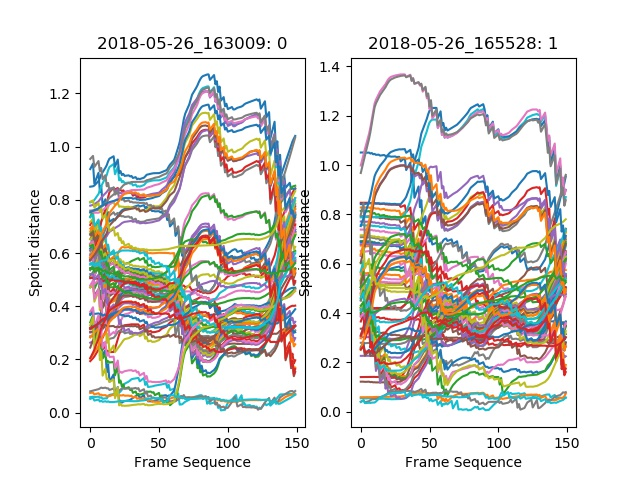
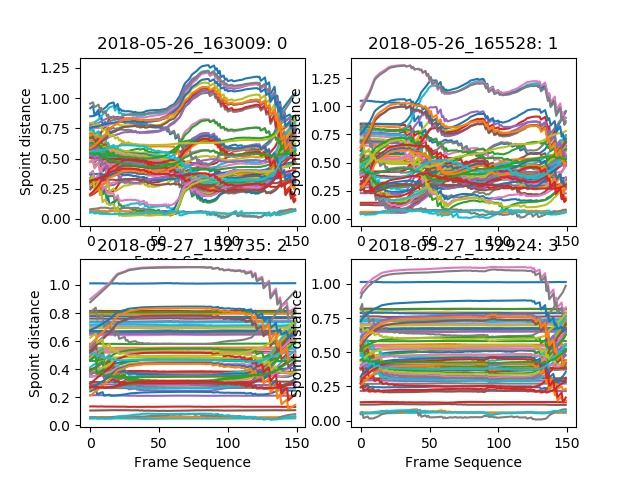
modify dataset

diff --git a/Project_DNN/do_Learning.py b/Project_DNN/do_Learning.py
@@ -30,9 +30,9 @@ path.ifNoDirThanMakeDir('weight')
 
 # configs
 epochs = util.inputInt('How many epochs?')
-b1_batch_size = 20 # GPU 메모리 부족으로 Batch_size에 한계 있음
-b2_batch_size = 11
-m1_batch_size = 11
+b1_batch_size = 15 # GPU 메모리 부족으로 Batch_size에 한계 있음
+b2_batch_size = 4
+m1_batch_size = 4
 isLoadWeight = util.inputInt('Load weight? (1 to yes)')
 overwrite = True
 isGuidenceTrain = util.inputInt('Guidence Train? (1 to yes)')
@@ -95,7 +95,7 @@ m1.fit([spointList_train, roiSampleList_train], [labelList_train],
 util.showProcess('Evaluate M1')
 score, acc = m1.evaluate([spointList_train, roiSampleList_train],
                          [labelList_train],
-                         batch_size=b1_batch_size)
+                         batch_size=m1_batch_size)
 print('Test score:', score)
 print('Test accuracy:', acc)
 

diff --git a/Project_Kinect/code/kinectProgram.cpp b/Project_Kinect/code/kinectProgram.cpp
@@ -534,7 +534,7 @@ void Kinect::updateFrame()
 		// 기록 끝
 		if (frameStacking && (!leftHandActivated && !rightHandActivated))
 		{
-			int needStackedCnt = (mode == KINECT_MODE_PREDICT ? 18 : 41);
+			int needStackedCnt = (mode == KINECT_MODE_PREDICT ? 18 : 35);
 
 			// 일정 frame 이상 쌓여야 함, 아니면 송신/저장 안함
 			if (frameCollection.getCollectionSize() > needStackedCnt)
@@ -624,7 +624,7 @@ void Kinect::save()
 	string folderPath = string(PATH_DATA_FOLDER);
 	folderPath += "/" + to_string(label) + "_" + LABEL(label);
 	isFolderNotExistCreate(folderPath);
-	folderPath += "/" + currentDateTime() + "_" + label + "_" + workerName;
+	folderPath += "/" + currentDateTime() + "_" + to_string(label) + "_" + workerName;
 	isFolderNotExistCreate(folderPath);
 	folderPath += "/";
 

diff --git a/Project_DNN/scripts/defines.py b/Project_DNN/scripts/defines.py
@@ -1,1 +1,1 @@
-LABEL_SIZE = 2
+LABEL_SIZE = 5
